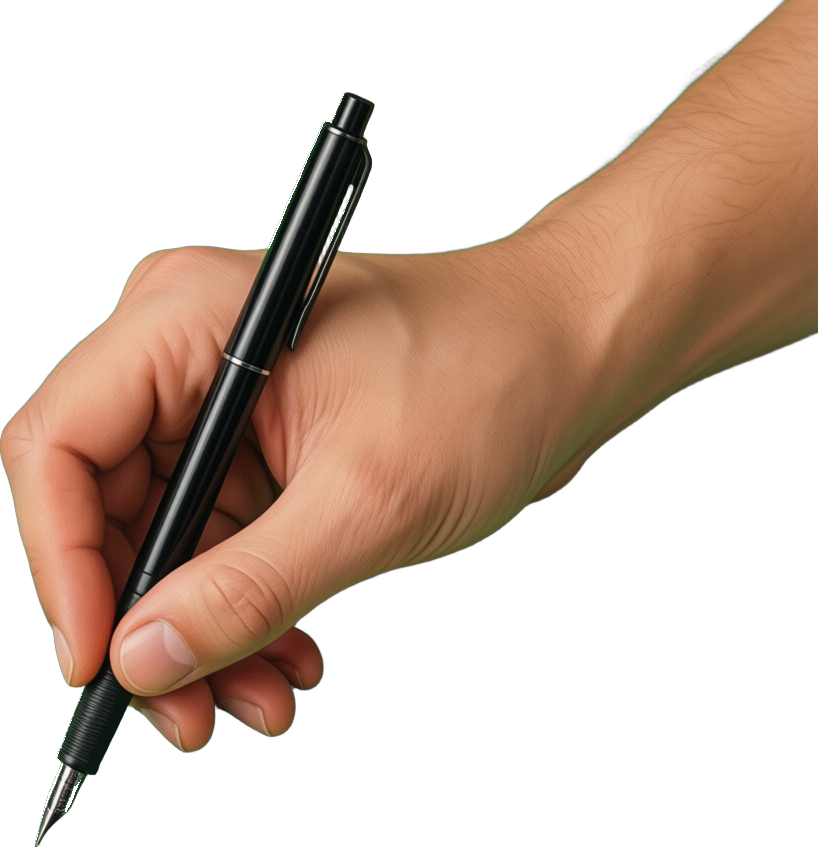
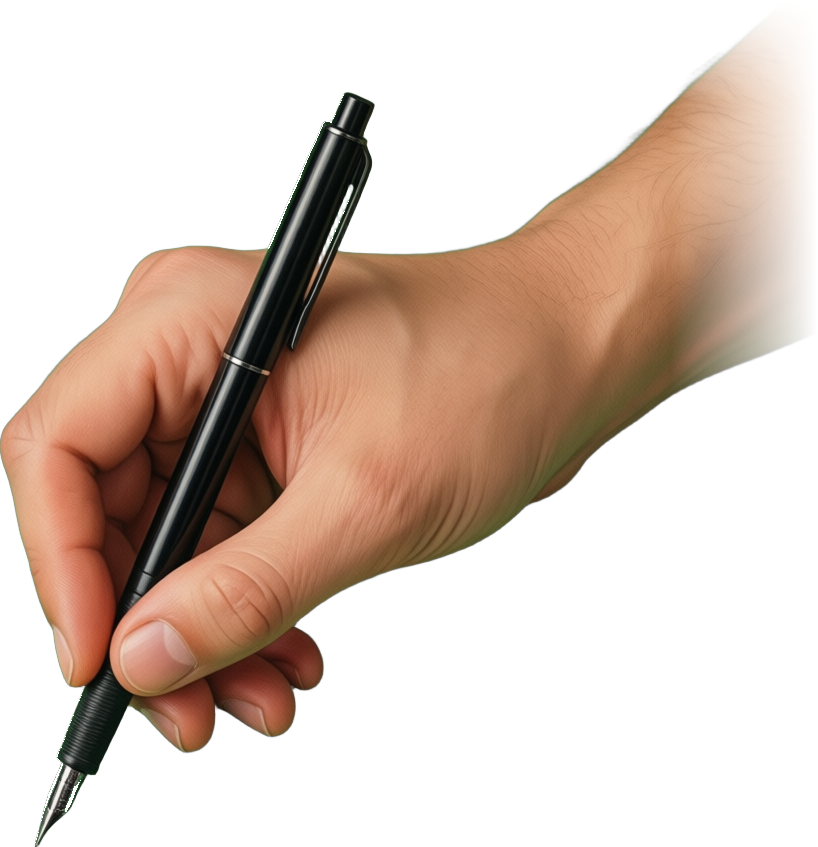
Bizarre manga: optional hand overlay
With --hand (or the app's "show hand"), a hand holds the pencil for the blue
rough and the pen for the ink, following each stroke, and moves away for the
colour. The pen and pencil hand images fade out at the wrist instead of
ending in a hard edge.

Changed region(s): [[0.8252, 0.0, 1.0, 0.4604]]

diff --git a/noobpainter/manga.py b/noobpainter/manga.py
@@ -36,6 +36,7 @@ DEFAULTS: dict[str, Any] = {
     "tint": [[92, 40, 132], [250, 205, 80], 0.32],  # shadows to purple, lights to gold (RGB, amount)
     "saturate": 1.45,
     "hatch_budget": 1200,
+    "hand_overlay": False,          # a hand holding the pencil, then the pen, on each stroke
 }
 PROMPT = ("bold manga colour illustration, an original fictional character, sharp angular face, "
           "strong jaw, defined lips, intense stare, ornate headwear and jewellery, dramatic pose "
@@ -182,6 +183,50 @@ def draw_ink(layer: np.ndarray, pts: np.ndarray, width: float, frac: float = 1.0
         cv2.line(layer, tuple(int(v) for v in p[i]), tuple(int(v) for v in p[i + 1]), 255, wdt, cv2.LINE_AA)
 
 
+class Hand:
+    """A hand (assets/hand) whose tool tip follows the stroke being drawn."""
+
+    def __init__(self, W: int):
+        import json
+        import handplay
+        self.sprites = {}
+        for tool in ("pencil", "pen"):
+            meta = handplay.HAND.with_name(f"{tool}.json")
+            if not meta.exists():
+                continue
+            m = json.loads(meta.read_text())
+            img = cv2.imread(str(meta.parent / m["file"]), cv2.IMREAD_UNCHANGED)
+            k = W * 0.42 / img.shape[1]
+            img = cv2.resize(img, (int(img.shape[1] * k), int(img.shape[0] * k)), interpolation=cv2.INTER_AREA)
+            rgba = cv2.cvtColor(img, cv2.COLOR_BGRA2RGBA).astype(np.float32)
+            self.sprites[tool] = (rgba, (m["tip"][0] * k, m["tip"][1] * k))
+        self.pos = None
+
+    def draw(self, frame: np.ndarray, tool: str, target: np.ndarray | None, dt: float) -> np.ndarray:
+        if tool not in self.sprites:
+            return frame
+        if target is None:                       # between stages: the hand drifts away
+            if self.pos is None:
+                return frame
+            target = self.pos + np.array([60.0, -90.0])
+        k = 1 - np.exp(-dt / 0.08)
+        self.pos = np.array(target, np.float32) if self.pos is None else self.pos + (np.asarray(target) - self.pos) * k
+        rgba, tip = self.sprites[tool]
+        H, W = frame.shape[:2]
+        x, y = int(self.pos[0] - tip[0]), int(self.pos[1] - tip[1])
+        for off, alpha, src in ((18, 0.28, None), (0, 1.0, rgba)):        # shadow, then hand
+            hh, ww = rgba.shape[:2]
+            x0, y0 = max(0, x + off), max(0, y + off)
+            x1, y1 = min(W, x + off + ww), min(H, y + off + hh)
+            if x0 >= x1 or y0 >= y1:
+                continue
+            sub = rgba[y0 - y - off:y1 - y - off, x0 - x - off:x1 - x - off]
+            a = sub[..., 3:4] / 255 * alpha
+            col = sub[..., :3] if src is not None else np.full_like(sub[..., :3], 30)
+            frame[y0:y1, x0:x1] = frame[y0:y1, x0:x1] * (1 - a) + col * a
+        return frame
+
+
 def render(picture: Path, out: Path, config: dict[str, Any] | None = None, music: Path | None = None,
            seed: int = 0) -> Path:
     cfg = {**DEFAULTS, **((config or {}).get("manga") or {})}
@@ -232,6 +277,8 @@ def render(picture: Path, out: Path, config: dict[str, Any] | None = None, music
             "-t", f"{total:.3f}", "-movflags", "+faststart", str(out)]
     proc = subprocess.Popen(cmd, stdin=subprocess.PIPE)
     blue_alpha = 1.0
+    hand = Hand(W) if cfg.get("hand_overlay") else None
+    tip = None
     try:
         for name, items, secs in plan:
             frames = max(1, int(secs * fps))
@@ -239,6 +286,11 @@ def render(picture: Path, out: Path, config: dict[str, Any] | None = None, music
             for k in range(frames):
                 upto = int(round(len(items) * (k + 1) / frames)) if items else 0
                 for it in items[done:upto]:
+                    if name == "black":                   # a filled area: the brush at its middle
+                        ys, xs = np.nonzero(it)
+                        tip = np.array([xs.mean(), ys.mean()]) if len(xs) else tip
+                    elif name in ("blue", "ink", "hatch"):
+                        tip = (it["pts"] if isinstance(it, dict) else it)[-1]   # where the tool is now
                     if name == "blue":
                         cv2.polylines(blue_l, [it.astype(np.int32)], False, 255, 3, cv2.LINE_AA)
                     elif name == "ink":
@@ -259,6 +311,10 @@ def render(picture: Path, out: Path, config: dict[str, Any] | None = None, music
                 frame = frame * (1 - b) + BLUE * b
                 i = (ink_l.astype(np.float32) / 255)[..., None]
                 frame = frame * (1 - i) + 14 * i
+                if hand is not None:
+                    tool = "pencil" if name == "blue" else "pen"
+                    live = name in ("blue", "ink", "hatch", "black")
+                    frame = hand.draw(frame, tool, tip if live else None, 1.0 / fps)
                 proc.stdin.write(np.clip(frame, 0, 255).astype(np.uint8).tobytes())
     finally:
         proc.stdin.close()

diff --git a/noobpainter/pipeline.py b/noobpainter/pipeline.py
@@ -192,7 +192,9 @@ def _ink_page(idea: str, style: str, out: Path, config: dict[str, Any],
         if is_manga:
             secs = sum(float(v) for v in {**manga.DEFAULTS, **(config.get("manga") or {})}["timing"])
             music = handplay.pick_music(secs, seed)
-            video = manga.render(ref, out / "manga.mp4", config, music, seed)
+            hand = bool((config.get("handplay") or {}).get("hand_overlay"))   # --hand / the app's tick box
+            mcfg = {**config, "manga": {**(config.get("manga") or {}), "hand_overlay": hand}}
+            video = manga.render(ref, out / "manga.mp4", mcfg, music, seed)
             title = "Watch this manga page come to life 🖋"
             made = ("A blue pencil rough, brush-pen ink, hatching and solid blacks, then flat colour "
                     "under the ink")

diff --git a/README.md b/README.md
@@ -72,7 +72,7 @@ Calm public-domain classical music plays underneath.
 - **Compass spiral** — the picture drawn as one spiral of compass arcs; the line weight carries the picture.
 - **Carving and clay** — a 3D block carved away (or clay built up) bit by bit, rendered in Blender under raking light, in wood, marble or terracotta.
 - **Moving paintings** — a picture or a video clip repainted frame by frame, about 12 paintings a second, so the brushwork shimmers (the technique of the film *Loving Vincent*).
-- **Bizarre manga** — made as manga is: a blue pencil rough, brush-pen ink (face first), hatching and solid blacks, the blue fades out, then flat bold colour under the ink.
+- **Bizarre manga** — made as manga is: a blue pencil rough, brush-pen ink (face first), hatching and solid blacks, the blue fades out, then flat bold colour under the ink. With `--hand`, a hand holds the pencil for the rough and the pen for the ink.
 - **Comic halftone** — ink and printed dot shading over the whole panel; it fades in, holds, then pushes in as the picture softens (the dots stay crisp).
 
 **The honest part:** there is no human painter and no real canvas. It is a computer
